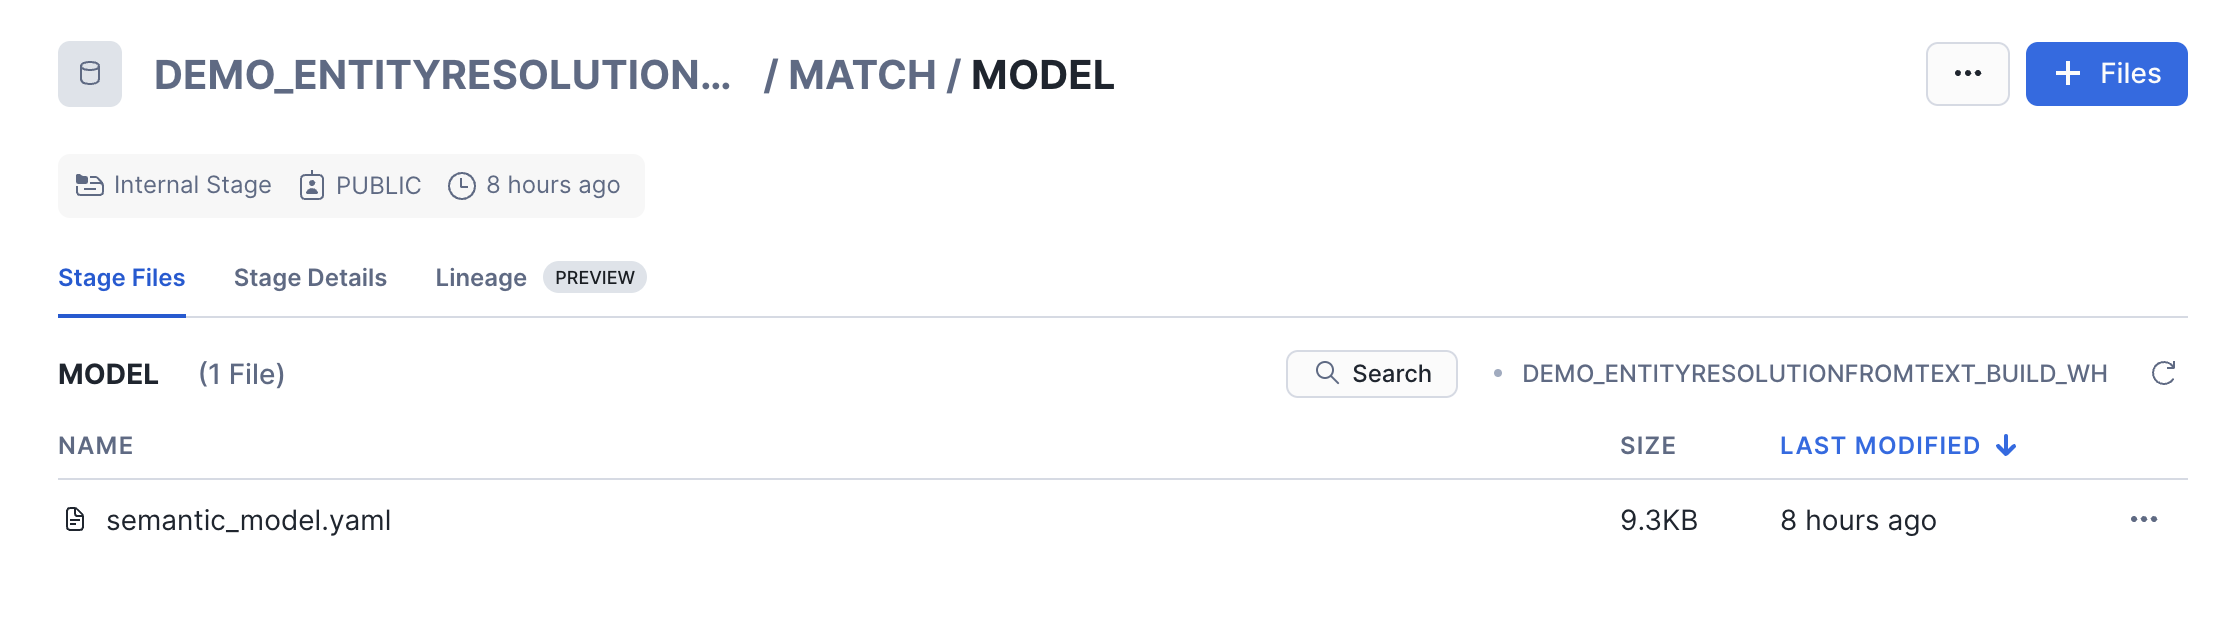
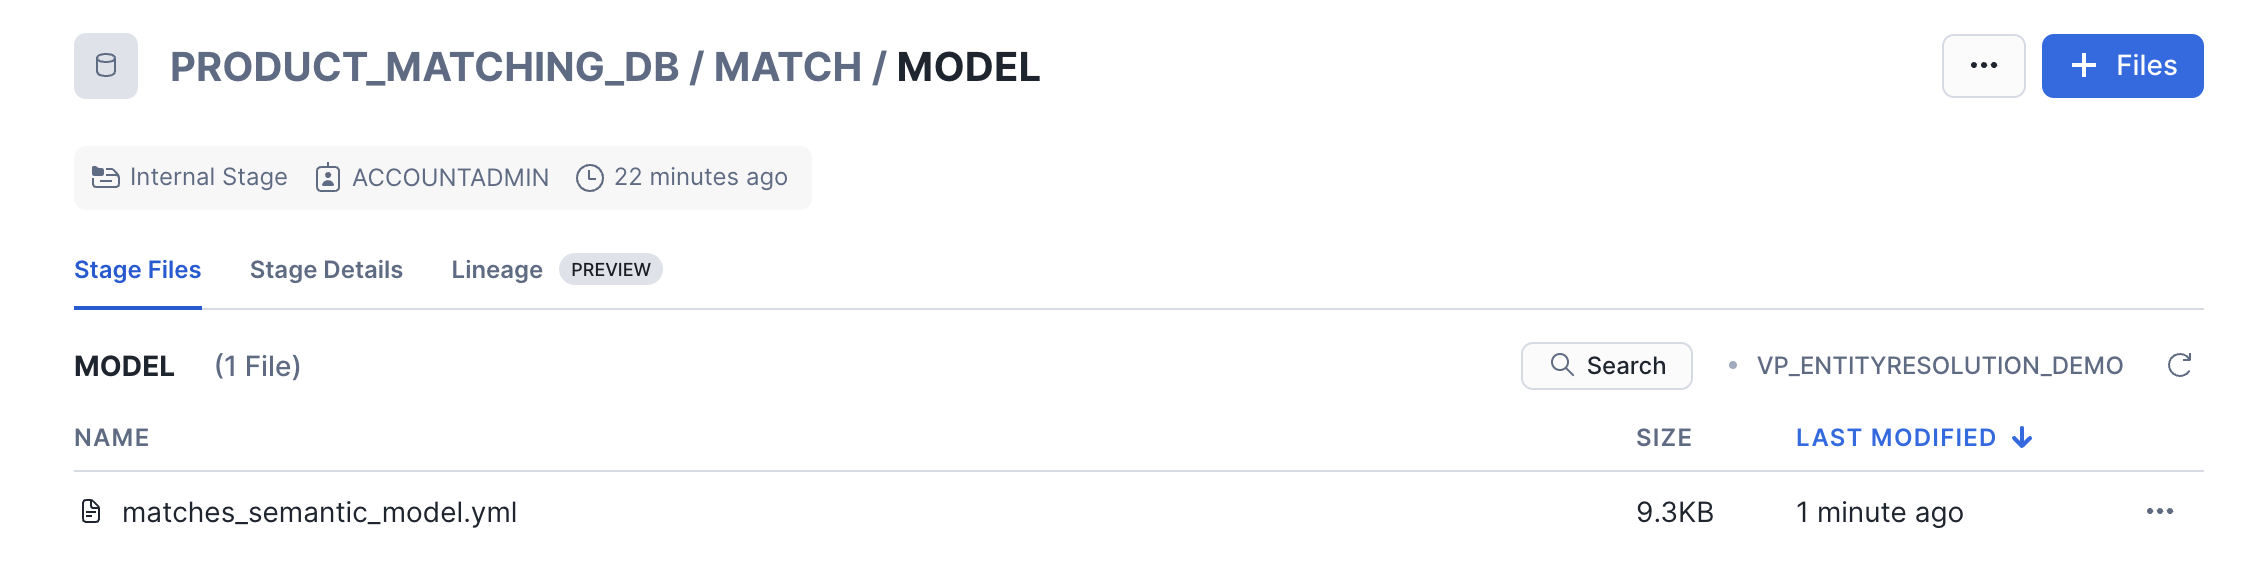
finalizing quickstart

diff --git a/site/sfguides/src/entity_resolution_for_product_matching/entity_resolution_for_product_matching.md b/site/sfguides/src/entity_resolution_for_product_matching/entity_resolution_for_product_matching.md
@@ -90,56 +90,22 @@ To get started using Snowflake Notebooks, first login to Snowsight. In the top-l
 <img src="assets/create_worksheet.png"/>
 <br></br>
 
-Paste and run the [setup SQL](https://github.com/Snowflake-Labs/sfguide-entity-resolution-for-product-classification/tree/main/scripts) **line by line** in the worksheet to create Snowflake objects (warehouse, database, schema, stage).
+Paste and run the [setup.sql](https://github.com/Snowflake-Labs/sfguide-entity-resolution-for-product-classification/tree/main/scripts) **line by line** in the worksheet to create objects (warehouse, database, schema, stage).
 
-```sql
-USE ROLE SYSADMIN;
-CREATE OR REPLACE WAREHOUSE PRODUCT_MATCHING_DS_WH; --by default, this creates an XS Standard Warehouse
-CREATE OR REPLACE DATABASE PRODUCT_MATCHING_DB;
-CREATE OR REPLACE SCHEMA MATCH;
-USE WAREHOUSE PRODUCT_MATCHING_DS_WH;
-USE DATABASE PRODUCT_MATCHING_DB;
-USE SCHEMA MATCH;
-CREATE OR REPLACE STAGE MODEL DIRECTORY=(ENABLE=true); --to store semantic model for the chatbot
-CREATE OR REPLACE STAGE STREAMLIT DIRECTORY=(ENABLE=true); --to store streamlit script
-```
+Now on the left hand side, navigate to Data > Databases and find the `PRODUCT_MATCHING_DB` database and `MATCH` schema we just defined.
 
-Now on the left hand side, navigate to Data > Databases and find the `PRODUCT_MATCHING_DB` database we just defined.
-
-**Upload required files** to the correct stages within the `MATCH` schema of the database.
 <img src="assets/upload_files.png"/>
 
-Click '+ Files' in the top right of the stage. Upload all files that you downloaded from GitHub into the stage. The contents should match the app directory. **Make sure your the files in your stages match the following**:
+Click '+ Files' in the top right of the stage. We'll be downloading a semantic model from the github repository, and uploading it to a stage. **Follow these steps**:
 
-- *Semantic Model:* Upload the semantic_model.yaml file to the `MODEL` stage from [model](https://github.com/Snowflake-Labs/sfguide-entity-resolution-for-product-classification/tree/main/scripts/streamlit/model)
+- *Semantic Model:* Download the `matches_semantic_model.yml` file from this [link](https://github.com/Snowflake-Labs/sfguide-entity-resolution-for-product-classification/tree/main/scripts/streamlit/model) and upload it to the `MODEL` stage.
 <img src="assets/model_stage.png"/>
-
-- *Streamlit Files:* Upload the streamlit files (including environment.yml) to the `STREAMLIT` stage from [streamlit](https://github.com/Snowflake-Labs/sfguide-entity-resolution-for-product-classification/tree/main/scripts/streamlit)
-<img src="assets/streamlit_stage.png"/>
-
-Please also download the .ipynb [notebook](https://github.com/Snowflake-Labs/sfguide-entity-resolution-for-product-classification/tree/main/notebooks) file, we will upload it directly on Snowsight in the next step.
-<br></br>
-
-But first, paste and run the following in the SQL worksheet to create the streamlit application.
-
-```sql
--- Create Streamlit App
-use role SYSADMIN;
-CREATE OR REPLACE STREAMLIT PRODUCT_MATCHING_DB.match.PRODUCT_MATCHING_chatbot
-ROOT_LOCATION = '@PRODUCT_MATCHING_DB.match.streamlit'
-MAIN_FILE = 'streamlit_app.py'
-QUERY_WAREHOUSE = 'PRODUCT_MATCHING_DS_WH'
-COMMENT = '{"origin":"sf_sit", "name":"product_matching", "version":{"major":1, "minor":0}, "attributes":{"is_quickstart":0, "source":"streamlit"}}';
-```
-Note that the Streamlit application is built on a table that our notebook will generate, and so it won't work for the time being.
 
 <!-- --------------------------->
 ## Access Notebook
-
-
 **Duration: 10 minutes**
 
-Please make sure you downloaded the [notebook](https://github.com/Snowflake-Labs/sfguide-entity-resolution-for-product-classification/tree/main/notebooks) from the repo.
+Please download the [notebook](https://github.com/Snowflake-Labs/sfguide-entity-resolution-for-product-classification/tree/main/notebooks) from the repo.
 
 For the Notebook, please follow these steps:
 - Navigate to Projects > Notebooks in Snowsight
@@ -161,20 +127,33 @@ Please note the notebook will take about 10 minutes to run!
 ## Run Streamlit Application
 **Duration: 20 minutes**
 
-Our Streamlit in Snowflake chatbot application has already been deployed as part of the setup process. To access it, navigate to Snowsight, click on Projects, and then the Streamlit tab. Open the newly created Streamlit chatbot application and explore!
+Similarly to the notebook, we will be creating the streamlit application **directly on Snowsight**!
 
-In the **Chatbot**, you can interact with product data using an intuitive Q&A interface powered by Snowflake Cortex. Ask questions about listings, comparative sales and views data, and general brand performance comparisons. Search for specific details, and receive concise answers along with the queries generated by **Cortex Analyst**.
+For the Streamlit application, please follow these steps:
+- On the bottom left of Snowsight, please click on your initials, and change your role to `PRODUCT_MATCHING_DATA_ANALYST`
+- Then, navigate to Projects > Streamlit in Snowsight
+- Click + Streamlit App, and configure the settings as follows:
+    - Application name: Retail Analyst
+    - Notebook database: `PRODUCT_MATCHING_DB`
+    - Notebook scehma: `MATCH`
+    - Warehouse: `PRODUCT_MATCHING_DS_WH`
+- Create Application
 
-<img src='assets/chatbot.png'/>
+Snowflake will create a default Streamlit application for you with example code. Please copy the contents of the `streamlit_app.py` file from this [link](https://github.com/Snowflake-Labs/sfguide-entity-resolution-for-product-classification/tree/main/scripts/streamlit), and replace the code on the left hand side. Afterwards, please click the Close Editor option on the bottom left to view the Streamlit application!
+
+<img src="assets/editor.png"/>
+
+With this **Chatbot** you can now interact with product data using an intuitive Q&A interface powered by Snowflake Cortex. Ask questions about listings, comparative sales and views data, and general brand performance comparisons. Search for specific details, and receive concise answers along with the queries generated by **Cortex Analyst**.
 
 Here are some example questions you can ask the chatbot:
-1. What Logitech mouse models are sold in both retailers?
-2. How is the Sony Xperia XA2 cell phone selling at Staples vs Office Depot?
-3. Which Apple products perform better in sales at Staples?
-4. Find me the 5 products with the greatest disparity in purchases at these retailers. <br>
+1. What Logitech keyboards are sold at both Staples and Office Depot?
+2. How is the Apple Beats Pill+ selling at both retailers?
+3. Find me the 5 products with the greatest disparity in purchases at these retailers. <br>
 
 Once you ask a question, the assistant begins processing it, translating your natural language prompt into a SQL query it then runs against the table we generated from running the Notebook! Once the process completes, the assistant provides a concise answer to your question in the chat window. Below the answer, you’ll see sections titled 'SQL Query' and 'Results'. Click on these to see the query the Analyst ran to determine the answer to your question, and the returned data it based it's answer on.
 <img src='assets/chatbot_question.png'/>
+
+Since our data from Similarweb Ltd is based around estimated product views and purchases on websites, we can ask comparative questions about specific products or about the retailers at large. However, different data involving the stocks of specific products, their costs across retailers or e-commerce platforms, and so on, can make this solution viable for teams dedicated towards supply chain, competitive pricing and much, much more! 
 
 <!-- --------------------------->
 ## Conclusion And Resources
